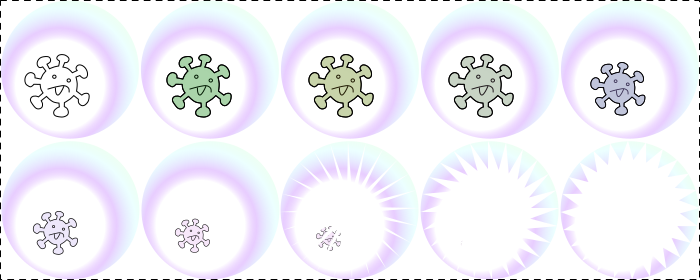
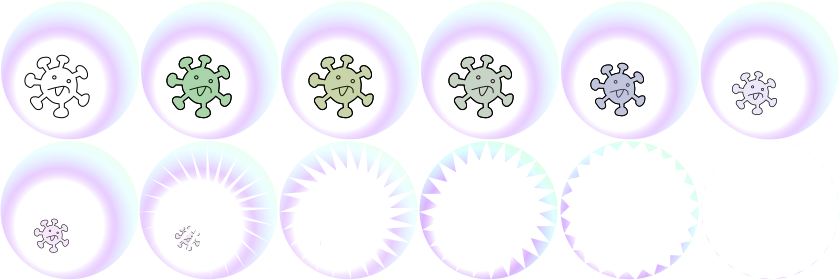
:bento: update assets

diff --git a/src/game.ts b/src/game.ts
@@ -31,6 +31,7 @@ export class Game extends Phaser.Scene {
       width: gameConfig.width,
       height: gameConfig.height,
     });
+    this.load.image("bubble", "assets/bubble-alone.png");
     this.load.spritesheet("viruses", "assets/viruses.png", {
       frameWidth: 70,
       frameHeight: 70,
@@ -133,7 +134,7 @@ export class Game extends Phaser.Scene {
         );
         if (!contains) return;
         this.add
-          .image(currentPointer.x, currentPointer.y, "bubbles", 9)
+          .image(currentPointer.x, currentPointer.y, "bubble")
           .setScale(0.3);
       },
     });
